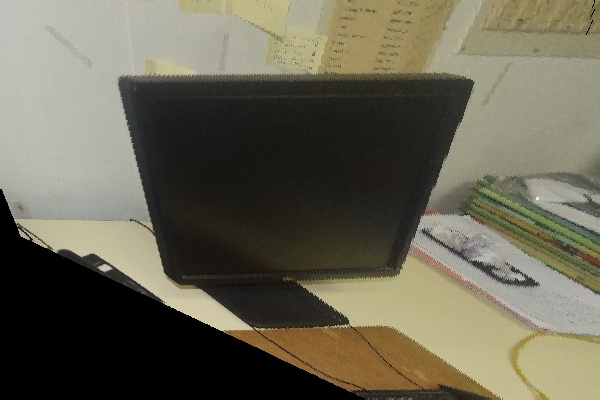
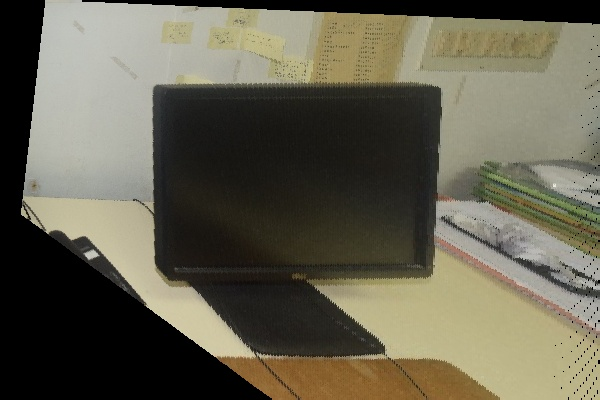
cleaned q1

diff --git a/assign1/fourpoints.py b/assign1/fourpoints.py
@@ -5,55 +5,11 @@ import matplotlib
 from tqdm import tqdm
 
 from config import *
+from utils import find_key_points, manual_interpolation
+
 files = sorted(glob(OUTPUT_FILE_PATH + '/*'))
-
-def find_key_points(img, coords, radius=5, color=(255,0,0)):
-    img_ = img.copy()
-    for point in coords:
-        x,y = point[0],point[1]
-        img_ = cv2.circle(img_, (x,y), radius, color, -1)
-    
-    return img_
-
-def max_neighbour(img,i,j):
-    dict_ = {}
-    for x in [i-1,i,i+1]:
-        for y in [j-1,j,j+1]:
-            dict_[np.sum(img[x,y])] = img[x,y]
-    m = max(dict_.keys())
-    
-    return dict_[m]
-
-def manual_interpolation(img):
-    img_ = img.copy()
-    h,w = img_.shape[0],img_.shape[1]
-    for y in tqdm(range(1,h-1)):
-        for x in range(1,w-1):
-            if np.sum(img_[y,x]) == 0:
-                img_[y,x] = max_neighbour(img,y,x)
-    img_[0] = img_[1]
-    img_[-1] = img_[-2]
-    img_[:,0] = img_[:,1]
-    img_[:,-1] = img_[:,-2]
-
-    return img_
-
-COORDS = np.asarray([[[200,99],[390,55],[283,269],[504,196]],\
-                    [[109,212],[280,150],[332,290],[533,266]],\
-                    [[112,109],[294,78],[174,293],[384,222]],\
-                    [[284,108],[374,117],[266,183],[369,193]],\
-                    [[213,130],[392,76],[291,368],[372,302]],\
-                    [[357,40],[584,116],[331,387],[568,320]]])
-
-ACTUAL_COORDS = np.asarray([[[200,100],[400,100],[200,300],[400,300]],\
-                            [[200,100],[400,100],[200,300],[400,300]],\
-                            [[160,80],[320,80],[160,240],[320,240]],\
-                            [[300,50],[400,50],[300,200],[400,200]],\
-                            [[150,100],[450,100],[250,325],[350,325]],\
-                            [[200,150],[550,150],[200,400],[550,400]]])
-
-
 COORDS, ACTUAL_COORDS = np.asarray(COORDS,dtype=np.int32), np.asarray(ACTUAL_COORDS,dtype=np.int32)
+
 for k, file in enumerate(files):
     img = cv2.imread(file)
     coords = COORDS[k]

diff --git a/assign1/lineatinf.py b/assign1/lineatinf.py
@@ -1,0 +1,53 @@
+import cv2
+from glob import glob
+import numpy as np
+import matplotlib
+from tqdm import tqdm
+
+from config import *
+files = sorted(glob(OUTPUT_FILE_PATH + '/*'))
+
+def find_key_points(img, coords, radius=5, color=(255,0,0)):
+    img_ = img.copy()
+    for point in coords:
+        x,y = point[0],point[1]
+        img_ = cv2.circle(img_, (x,y), radius, color, -1)
+    
+    return img_
+
+def max_neighbour(img,i,j):
+    dict_ = {}
+    for x in [i-1,i,i+1]:
+        for y in [j-1,j,j+1]:
+            dict_[np.sum(img[x,y])] = img[x,y]
+    m = max(dict_.keys())
+    
+    return dict_[m]
+
+def manual_interpolation(img):
+    img_ = img.copy()
+    h,w = img_.shape[0],img_.shape[1]
+    for y in tqdm(range(1,h-1)):
+        for x in range(1,w-1):
+            if np.sum(img_[y,x]) == 0:
+                img_[y,x] = max_neighbour(img,y,x)
+    img_[0] = img_[1]
+    img_[-1] = img_[-2]
+    img_[:,0] = img_[:,1]
+    img_[:,-1] = img_[:,-2]
+
+    return img_
+
+COORDS = np.asarray([[[200,99],[390,55],[283,269],[504,196]],\
+                    [[109,212],[280,150],[332,290],[533,266]],\
+                    [[112,109],[294,78],[174,293],[384,222]],\
+                    [[284,108],[374,117],[266,183],[369,193]],\
+                    [[213,130],[392,76],[224,338],[390,220]],\
+                    [[357,40],[584,116],[331,387],[568,320]]])
+
+ACTUAL_COORDS = np.asarray([[[200,100],[400,100],[200,300],[400,300]],\
+                            [[200,100],[400,100],[200,300],[400,300]],\
+                            [[160,80],[320,80],[160,240],[320,240]],\
+                            [[300,50],[400,50],[300,200],[400,200]],\
+                            [[175,100],[425,100],[175,270],[425,270]],\
+                            [[200,150],[550,150],[200,400],[550,400]]])

diff --git a/assign1/utils.py b/assign1/utils.py
@@ -1,0 +1,34 @@
+import cv2
+import numpy as np
+from tqdm import tqdm
+
+def find_key_points(img, coords, radius=5, color=(255,0,0)):
+    img_ = img.copy()
+    for point in coords:
+        x,y = point[0],point[1]
+        img_ = cv2.circle(img_, (x,y), radius, color, -1)
+    
+    return img_
+
+def max_neighbour(img,i,j):
+    dict_ = {}
+    for x in [i-1,i,i+1]:
+        for y in [j-1,j,j+1]:
+            dict_[np.sum(img[x,y])] = img[x,y]
+    m = max(dict_.keys())
+    
+    return dict_[m]
+
+def manual_interpolation(img):
+    img_ = img.copy()
+    h,w = img_.shape[0],img_.shape[1]
+    for y in tqdm(range(1,h-1)):
+        for x in range(1,w-1):
+            if np.sum(img_[y,x]) == 0:
+                img_[y,x] = max_neighbour(img,y,x)
+    img_[0] = img_[1]
+    img_[-1] = img_[-2]
+    img_[:,0] = img_[:,1]
+    img_[:,-1] = img_[:,-2]
+
+    return img_

diff --git a/assign1/config.py b/assign1/config.py
@@ -2,3 +2,17 @@ IM_RESIZE_WIDTH = 600
 IM_RESIZE_HEIGHT = 400
 INPUT_FILE_PATH = './Images'
 OUTPUT_FILE_PATH = './processed'
+
+COORDS = [[[200,99],[390,55],[283,269],[504,196]],\
+          [[109,212],[280,150],[332,290],[533,266]],\
+          [[112,109],[294,78],[174,293],[384,222]],\
+          [[284,108],[374,117],[266,183],[369,193]],\
+          [[213,130],[392,76],[224,338],[390,220]],\
+          [[357,40],[584,116],[331,387],[568,320]]]
+
+ACTUAL_COORDS = [[[200,100],[400,100],[200,300],[400,300]],\
+                [[200,100],[400,100],[200,300],[400,300]],\
+                [[160,80],[320,80],[160,240],[320,240]],\
+                [[300,50],[400,50],[300,200],[400,200]],\
+                [[175,100],[425,100],[175,270],[425,270]],\
+                [[200,150],[550,150],[200,400],[550,400]]]
